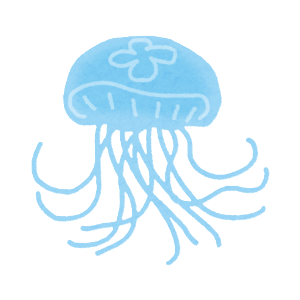
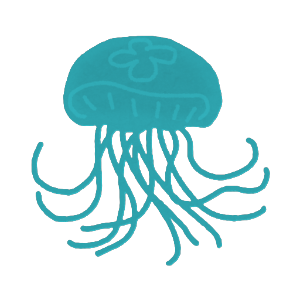
change blue jellyfish asset

Changed region(s): [[0.09, 0.12, 0.9, 0.9]]

diff --git a/src/components/Schedule/index.tsx b/src/components/Schedule/index.tsx
@@ -23,8 +23,8 @@ const eventTypeColors = {
 		jellyfishAsset: "/f25/9.png",
 	},
 	[EventType.food]: {
-		bg: "bg-[#7bccf0]",
-		border: "border-[#7bccf0]",
+		bg: "bg-[#2b98a1]",
+		border: "border-[#2b98a1]",
 		text: "text-[#16A34A]",
 		label: "Food",
 		jellyfishAsset: "/f25/10.png",
